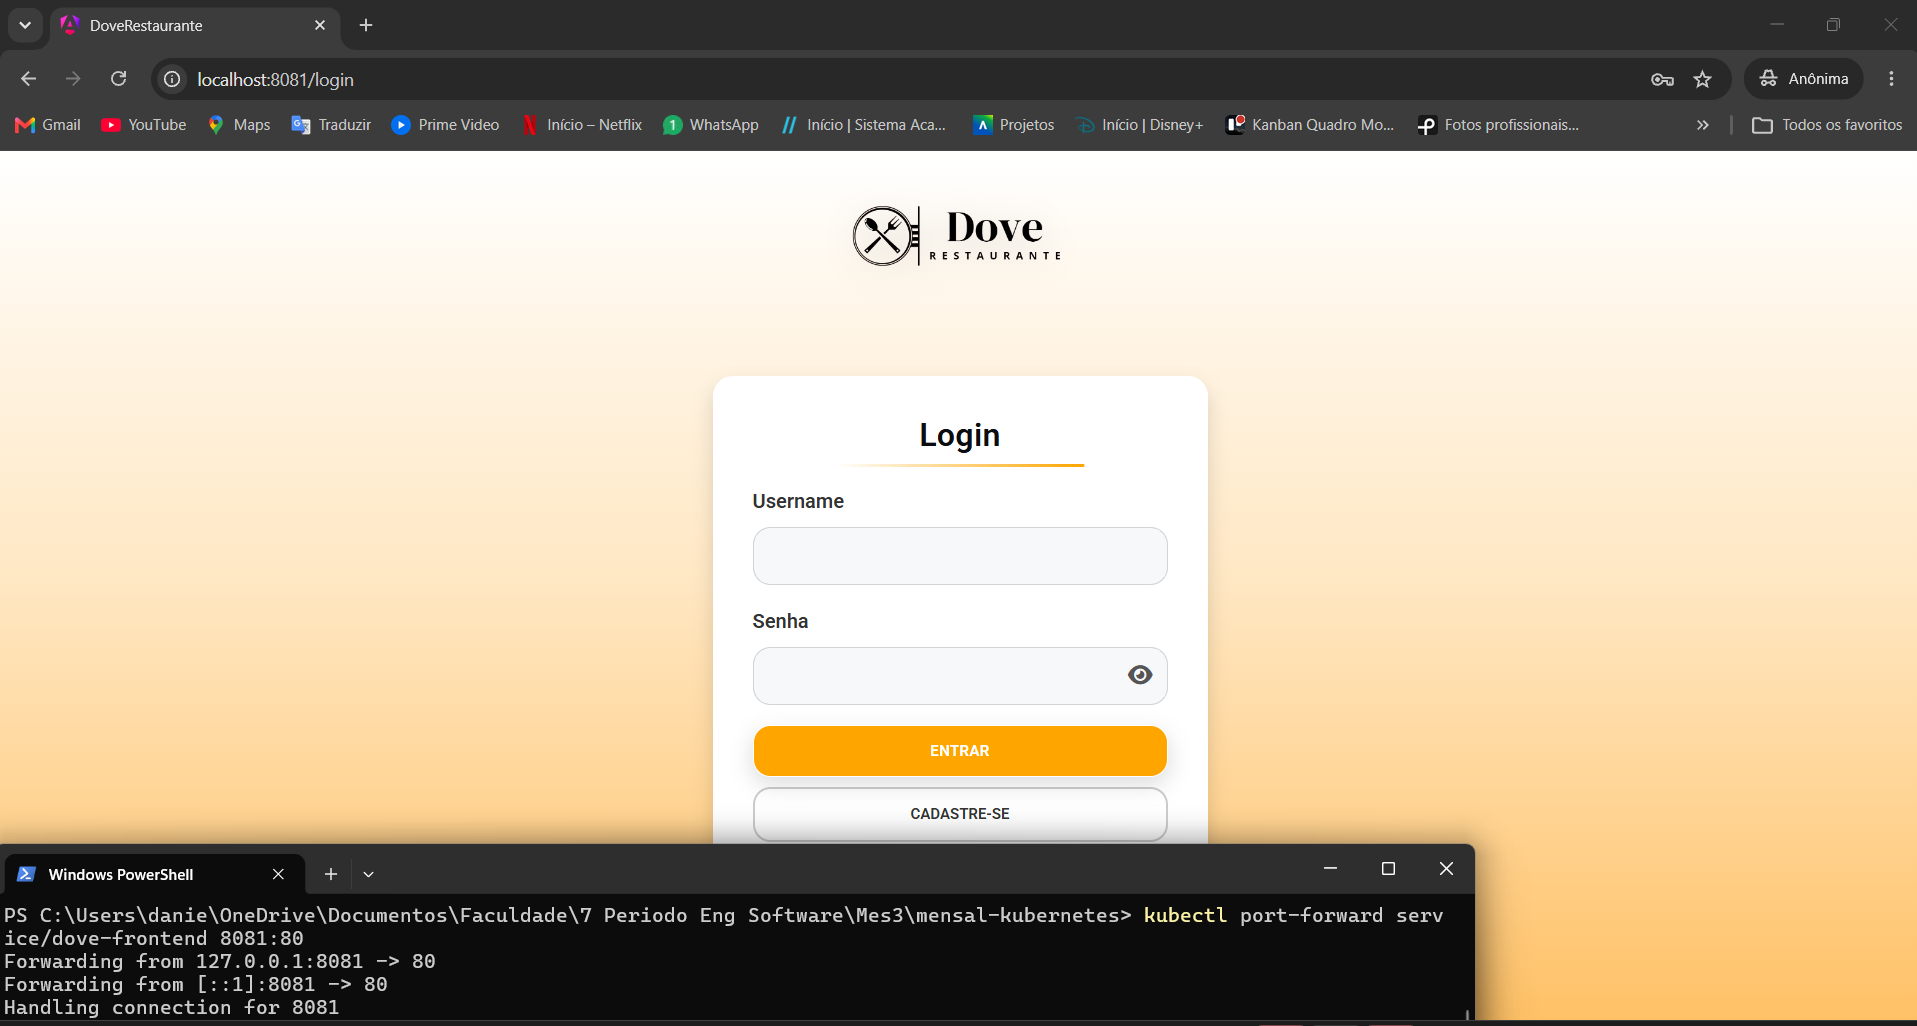
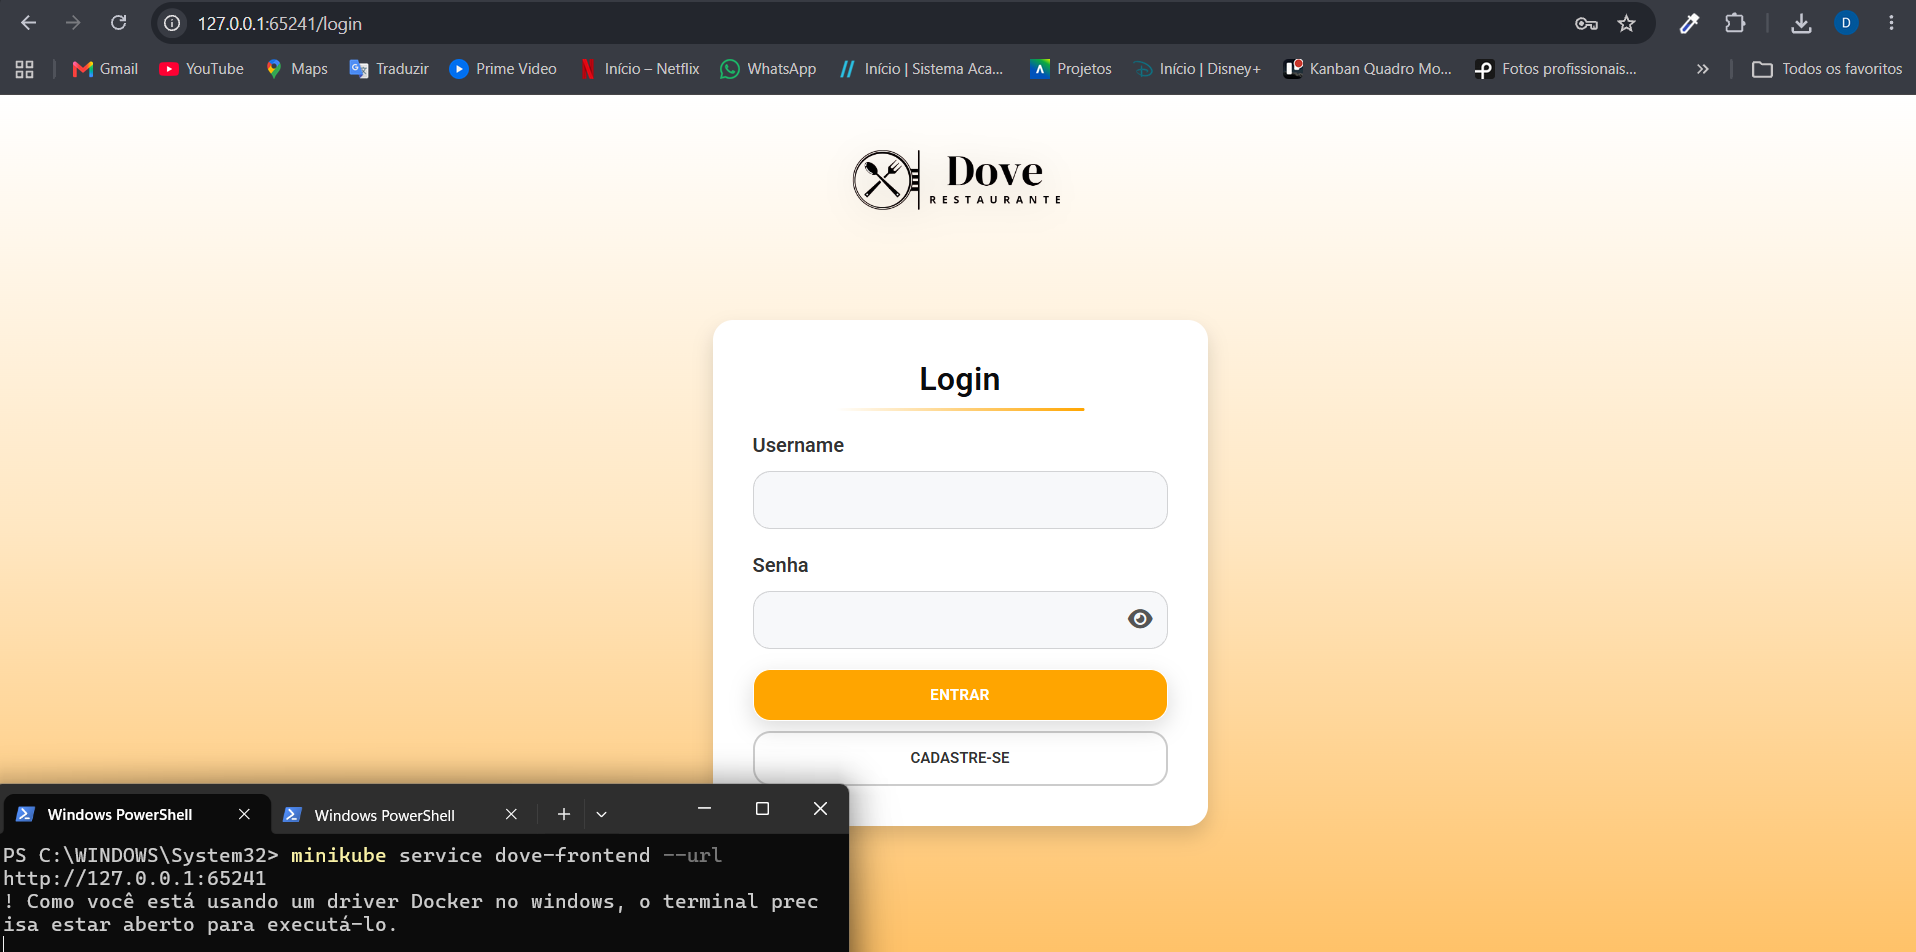
fix: adiciona startup probe no backend e atualiza acesso para minikube service

diff --git a/README.md b/README.md
@@ -31,7 +31,7 @@ Todos os componentes da aplicação (frontend, backend e banco de dados) executa
 
 ```mermaid
 flowchart TB
-    user["Navegador<br/>localhost:8081"]
+    user["Navegador<br/>127.0.0.1:porta"]
 
     subgraph cluster["Cluster Minikube"]
         svcFront["Service dove-frontend<br/>NodePort :80"]
@@ -61,7 +61,7 @@ flowchart TB
         sec["Secrets mysql-secret, backend-secret"]
     end
 
-    user -->|port-forward| svcFront
+    user -->|minikube service| svcFront
     svcFront --> f1 & f2 & f3
     depFront -->|/api/| svcBack
     svcBack --> b1 & b2 & b3
@@ -94,7 +94,7 @@ flowchart TB
 
 ### Comunicação entre os componentes
 
-- O navegador acessa somente o **frontend**.
+- O navegador acessa somente o **frontend**, pela URL que o comando `minikube service` mostra. O comando abre um túnel até o NodePort do Service `dove-frontend`, que distribui as requisições entre os 3 Pods do Nginx.
 - O **Nginx** do frontend encaminha as requisições `/api/` para o Service `backend`, usando o DNS interno do cluster.
 - O Service `backend` distribui as conexões entre os 3 Pods com o rótulo `app=dove-backend`.
 - O **backend** conecta ao banco pelo nome DNS `mysql`, definido no ConfigMap.
@@ -102,7 +102,7 @@ flowchart TB
 
 Os Services fornecem endereços estáveis, então nenhum componente depende dos IPs dos Pods, que mudam a cada recriação.
 
-Como o Nginx faz o proxy de `/api/`, o navegador enxerga frontend e API na mesma origem (`localhost:8081`), sem necessidade de configuração de CORS para o acesso via cluster.
+Como o Nginx faz o proxy de `/api/`, o navegador enxerga frontend e API na mesma origem (a URL aberta pelo `minikube service`), sem necessidade de configuração de CORS para o acesso via cluster.
 
 ### Recursos Kubernetes
 
@@ -112,10 +112,10 @@ Como o Nginx faz o proxy de `/api/`, o navegador enxerga frontend e API na mesma
 | `k8s/mysql-deployment.yaml` | Deployment `mysql` | MySQL 8.4, 1 réplica, estratégia `Recreate`, readiness probe |
 | `k8s/mysql-service.yaml` | Service `mysql` (ClusterIP) | Acesso interno na porta 3306 |
 | `k8s/backend-configmap.yaml` | ConfigMap `backend-config` | Configurações não sigilosas (perfil Spring, JDBC, usuário) |
-| `k8s/backend-deployment.yaml` | Deployment `dove-backend` | Spring Boot, 3 réplicas, readiness e liveness probes |
+| `k8s/backend-deployment.yaml` | Deployment `dove-backend` | Spring Boot, 3 réplicas, startup, readiness e liveness probes |
 | `k8s/backend-service.yaml` | Service `backend` (ClusterIP) | Balanceamento interno na porta 8080 |
 | `k8s/frontend-deployment.yaml` | Deployment `dove-frontend` | Angular/Nginx, 3 réplicas, readiness probe |
-| `k8s/frontend-service.yaml` | Service `dove-frontend` (NodePort) | Exposição do frontend na porta 80 |
+| `k8s/frontend-service.yaml` | Service `dove-frontend` (NodePort) | Exposição do frontend fora do cluster, porta 80 |
 | Criado por comando | Secret `mysql-secret` | Senhas do MySQL |
 | Criado por comando | Secret `backend-secret` | Chave de assinatura JWT |
 
@@ -155,8 +155,8 @@ dove-kubernetes/
 
 ### Dockerfiles
 
-- **Backend** (`dove-restaurante-api/Dockerfile`): compila o projeto com Maven Wrapper (`./mvnw clean package -DskipTests`) e executa o WAR gerado com Java 17.
-- **Frontend** (`dove-restaurante-web/Dockerfile`): build multi-stage. Usa Node 20 para compilar o Angular (`npm ci` e build para `dist/dove-restaurante/browser`) e Nginx para servir os arquivos estáticos e fazer o proxy da API.
+- **Backend** (`dove-restaurante-api/Dockerfile`): build em duas etapas. A primeira compila o projeto com Maven Wrapper (`./mvnw clean package -DskipTests`) usando o JDK 17; a segunda executa o WAR gerado com o JRE 17, com um usuário sem privilégios de administrador.
+- **Frontend** (`dove-restaurante-web/Dockerfile`): build em duas etapas. Usa Node 20 para compilar o Angular (`npm ci` e build para `dist/dove-restaurante/browser`) e Nginx para servir os arquivos estáticos e fazer o proxy da API.
 
 ## 3. Pré-requisitos
 
@@ -272,15 +272,16 @@ kubectl get pvc
 kubectl apply -f .\k8s\backend-configmap.yaml
 kubectl apply -f .\k8s\backend-service.yaml
 kubectl apply -f .\k8s\backend-deployment.yaml
-kubectl rollout status deployment/dove-backend --timeout=300s
+kubectl rollout status deployment/dove-backend --timeout=400s
 ```
 
-O ConfigMap define `SPRING_PROFILES_ACTIVE=prod`, `DB_URL=jdbc:mysql://mysql:3306/dove` e `DB_USERNAME=dove_user`. A senha vem do Secret `mysql-secret`. Na primeira inicialização, o Hibernate cria as tabelas do banco.
+O ConfigMap define `SPRING_PROFILES_ACTIVE=prod`, `DB_URL=jdbc:mysql://mysql:3306/dove` e `DB_USERNAME=dove_user`. O perfil `prod` faz o Spring Boot carregar o `application-prod.properties`, que lê essas variáveis. A senha vem do Secret `mysql-secret`. Na primeira inicialização, o Hibernate cria as tabelas do banco.
 
-O backend possui duas probes do tipo `tcpSocket` na porta 8080:
+O backend possui três probes do tipo `tcpSocket` na porta 8080:
 
+- **Startup probe:** dá até 6 minutos para o Spring Boot iniciar. Enquanto ela não passa, as outras probes não são verificadas, então uma inicialização lenta (por exemplo, com as 3 réplicas subindo ao mesmo tempo depois de um `minikube start`) não faz o contêiner ser reiniciado.
 - **Readiness probe:** o Pod só passa a receber tráfego do Service depois que o Spring Boot abre a porta. Assim, o `rollout status` só conclui quando a aplicação está de fato no ar.
-- **Liveness probe:** se a porta deixar de responder, o Kubernetes reinicia o contêiner automaticamente.
+- **Liveness probe:** se a porta deixar de responder depois que a aplicação já subiu, o Kubernetes reinicia o contêiner automaticamente.
 
 A verificação é por TCP, e não por HTTP, porque a rota `/` responde 403 por causa do Spring Security, o que o Kubernetes consideraria falha.
 
@@ -322,16 +323,12 @@ Nomes de Pods, IPs e NodePorts são gerados dinamicamente e serão diferentes em
 Em um **novo PowerShell**, mantendo-o aberto:
 
 ```powershell
-kubectl port-forward service/dove-frontend 8081:80
-```
-
-Acesse **http://localhost:8081**. Para encerrar, pressione `Ctrl+C`.
-
-Como alternativa, já que o Service é NodePort:
-
-```powershell
 minikube service dove-frontend --url
 ```
+
+O comando abre um túnel até o NodePort do Service `dove-frontend` e mostra a URL de acesso, por exemplo `http://127.0.0.1:54321`. A porta é escolhida a cada execução. Abra essa URL no navegador e mantenha o terminal aberto enquanto usar a aplicação; para encerrar, pressione `Ctrl+C`.
+
+O túnel é necessário porque, com o Minikube no driver Docker do Windows, a porta do NodePort não fica acessível diretamente pelo navegador. Como o acesso passa pelo NodePort, o próprio Service distribui as requisições entre os 3 Pods do frontend.
 
 ### 11.2 Criar o usuário administrador (banco novo)
 
@@ -359,7 +356,7 @@ SELECT id, nome, username, email, tipo FROM tb_usuario WHERE username = 'admin';
 exit;
 ```
 
-Agora faça login em http://localhost:8081 com:
+Agora faça login na URL aberta pelo `minikube service` com:
 
 | Usuário | Senha |
 |---|---|
@@ -393,10 +390,10 @@ kubectl logs -l app=dove-backend -f --prefix --tail=0 | Select-String "Hibernate
 **Terminal 2**, acesso à aplicação:
 
 ```powershell
-kubectl port-forward service/dove-frontend 8081:80
+minikube service dove-frontend --url
 ```
 
-Em http://localhost:8081, faça login e navegue entre as telas que buscam dados (cardápio, pedidos, ingredientes), atualizando a página algumas vezes. No Terminal 1, as consultas passam a aparecer com prefixos de Pods diferentes:
+Na URL mostrada pelo comando, faça login e navegue entre as telas que buscam dados (cardápio, pedidos, ingredientes), atualizando a página algumas vezes. No Terminal 1, as consultas passam a aparecer com prefixos de Pods diferentes:
 
 ```text
 [pod/dove-backend-6b9447ff8-p6q2j/backend] Hibernate:
@@ -474,11 +471,15 @@ kubectl get deployments
 
 **Resultado obtido:** após a exclusão de `dove-frontend-7f457f4859-s8cnz`, o Kubernetes criou automaticamente `dove-frontend-7f457f4859-5cjsb`, que ficou pronto (`1/1`) em cerca de 12 segundos, e o Deployment voltou a 3/3 réplicas. O mesmo teste no backend recriou `dove-backend-6b9447ff8-k4zn5` como `dove-backend-6b9447ff8-2zxmb` em cerca de 72 segundos, tempo maior por causa da inicialização do Spring Boot.
 
+> O Pod antigo pode aparecer como `Completed` ou `Error` antes de sumir. Isso é apenas o código de saída do contêiner ao receber o sinal de encerramento (0 no Nginx, 143 na JVM) e não indica falha.
+
 ![Self-healing](evidencias/07-self-healing.png)
 
 ## 14. Persistência do banco
 
-O PVC `mysql-pvc` reserva 2Gi (`ReadWriteOnce`) e é montado em `/var/lib/mysql` no Pod do MySQL. Assim, os dados sobrevivem à recriação do Pod.
+O PVC `mysql-pvc` solicita 2Gi (`ReadWriteOnce`). O Minikube cria automaticamente um PersistentVolume (PV) pela StorageClass `standard`, que fica no nó do cluster, fora do Pod. O Pod do MySQL apenas monta esse volume em `/var/lib/mysql`.
+
+Assim, se o Pod do MySQL for excluído ou falhar, o Deployment cria um novo Pod, que monta o mesmo PVC e encontra os dados intactos. Os dados só são perdidos se o PVC for excluído ou se o cluster for apagado (`minikube delete`).
 
 ```powershell
 kubectl get pvc mysql-pvc
@@ -522,10 +523,11 @@ kubectl describe pvc mysql-pvc
 | **Deployment** | Define o modelo dos Pods (imagem, variáveis, probes, volumes), mantém o número de réplicas, recria Pods que falham e faz atualizações graduais (rolling update) |
 | **Service** | Endereço e nome DNS estáveis que encaminham tráfego aos Pods selecionados por rótulo |
 | **ClusterIP** | Service acessível só dentro do cluster; usado no backend e no MySQL |
-| **NodePort** | Service exposto em uma porta do nó; usado no frontend |
+| **NodePort** | Service exposto em uma porta do nó; usado no frontend e acessado pelo `minikube service` |
 | **ConfigMap** | Configurações não sigilosas do backend (perfil Spring, URL JDBC, usuário do banco) |
 | **Secret** | Senhas do banco e chave JWT, injetadas como variáveis de ambiente |
 | **PersistentVolumeClaim** | Armazenamento persistente dos dados do MySQL |
+| **Startup probe** | Dá tempo para a aplicação iniciar antes de as outras probes começarem; configurada no backend |
 | **Readiness probe** | Indica quando o Pod pode receber tráfego; configurada no frontend, no backend e no MySQL |
 | **Liveness probe** | Reinicia o contêiner se ele parar de responder; configurada no backend |
 | **Estratégia Recreate** | Usada no MySQL para evitar dois Pods montando o mesmo volume `ReadWriteOnce` |
@@ -543,7 +545,7 @@ Correspondência entre a orquestração do Mensal 1 e a implantação atual:
 | `environment` com valores comuns | ConfigMap `backend-config` |
 | Senhas no arquivo `.env` | Secrets `mysql-secret` e `backend-secret` |
 | `depends_on: condition: service_healthy` | Ordem de aplicação dos manifestos + readiness probes |
-| `ports: "80:80"` no frontend | Service NodePort + `kubectl port-forward` |
+| `ports: "80:80"` no frontend | Service NodePort + `minikube service` |
 | `restart: unless-stopped` | Deployment recria Pods automaticamente + liveness probe |
 | 1 contêiner por serviço | 3 réplicas no backend e no frontend, com balanceamento pelo Service |
 
@@ -557,10 +559,11 @@ O código-fonte da aplicação não precisou ser alterado: o backend continua le
 | `CreateContainerConfigError` | Verificar se `mysql-secret`, `backend-secret` e `backend-config` existem com as chaves corretas |
 | MySQL não inicializa | `kubectl logs deployment/mysql --tail=100`; verificar PVC e senhas |
 | Backend não conecta ao banco | Verificar o Service `mysql`, se o MySQL está pronto e a senha no Secret |
-| Backend fica em `0/1` por muito tempo | Normal na primeira subida; acompanhar com `kubectl logs deployment/dove-backend --tail=100` |
-| Backend reiniciando (`RESTARTS` aumentando) | `kubectl describe pod NOME_DO_POD`; se aparecer "Liveness probe failed", o Spring Boot está demorando mais de 2 minutos para subir: aumentar `initialDelaySeconds` da liveness probe para 180 |
+| Backend fica em `0/1` por alguns minutos | Normal na subida, principalmente depois de um `minikube start`, quando as 3 réplicas iniciam juntas; acompanhar com `kubectl logs deployment/dove-backend --tail=100` |
+| Backend reiniciando (`RESTARTS` aumentando) | `kubectl describe pod NOME_DO_POD`; se aparecer "Startup probe failed", o Spring Boot não subiu em 6 minutos: reduzir para 1 réplica (`kubectl scale deployment/dove-backend --replicas=1`), aguardar ficar pronta e voltar para 3 |
+| Login retorna 502 (Bad Gateway) | O Nginx não encontrou nenhum backend pronto; verificar com `kubectl get pods` se o backend está `1/1` |
 | Frontend abre, mas a API falha | Verificar `nginx.conf`, o Service `backend` e os Pods do backend |
-| Porta 8081 ocupada | Usar `kubectl port-forward service/dove-frontend 8082:80` e abrir http://localhost:8082 |
+| Página não abre | Verificar se o terminal do `minikube service` continua aberto; se fechou, rodar o comando de novo e usar a nova URL |
 | Login falha em banco novo | Executar o cadastro do administrador (seção 11.2) |
 | PVC em `Pending` | `kubectl describe pvc mysql-pvc` e verificar a StorageClass |
 
@@ -573,6 +576,7 @@ kubectl get events --sort-by=.lastTimestamp
 ```
 
 ## Limpeza do ambiente
+
 > O primeiro comando também remove o PVC `mysql-pvc`, apagando os dados do banco. Para encerrar sem perder dados, use apenas `minikube stop`.
 
 ```powershell
